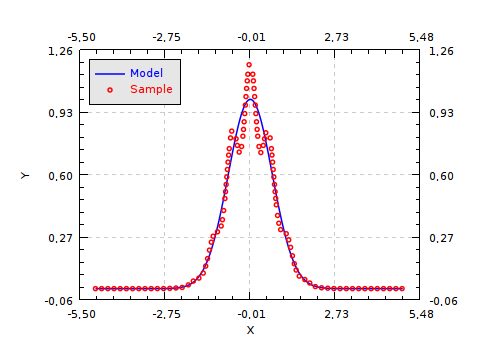
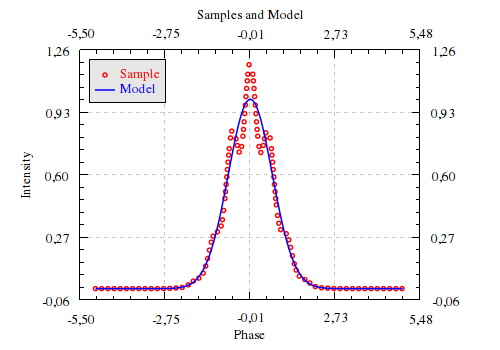
Fixed legend

diff --git a/test.c b/test.c
@@ -34,20 +34,28 @@ int main(int argc, char *argv[])
     
     /* put the data arrays in the data objects */
     slope_data_t *model_data =
-    slope_xydata_create_simple(
-        x, y1, N, "Model",
-        SLOPE_BLUE, SLOPE_LINE);
+        slope_xydata_create_simple(
+            x, y1, N, "Model",
+            SLOPE_BLUE, SLOPE_LINE);
     
     slope_data_t *sample_data =
-    slope_xydata_create_simple(
-        x, y2, N, "Sample",
-        SLOPE_RED, SLOPE_CIRCLES);
+        slope_xydata_create_simple(
+            x, y2, N, "Sample",
+            SLOPE_RED, SLOPE_CIRCLES);
     
     /*
      *create a metrics to place the data in the chart */
     slope_metrics_t *metrics = slope_xymetrics_create();
-    slope_metrics_add_data(metrics, model_data);
     slope_metrics_add_data(metrics, sample_data);
+    slope_metrics_add_data(metrics, model_data);
+    
+    /*
+     * this is how you set axis labels
+     */
+    slope_frame_t *frame = slope_xymetrics_get_frame(metrics);
+    slope_xyframe_set_label(frame, SLOPE_XYFRAME_TOP, "Samples and Model");
+    slope_xyframe_set_label(frame, SLOPE_XYFRAME_BOTTOM, "Phase");
+    slope_xyframe_set_label(frame, SLOPE_XYFRAME_LEFT, "Intensity");
     
     /*
      *add the metrics to a scene */
@@ -55,23 +63,15 @@ int main(int argc, char *argv[])
     slope_scene_add_metrics(scene, metrics);
     
     /*
-     *this is how you set axis labels
-    slope_frame_t *frame = slope_xymetrics_get_frame(metrics);
-    slope_xyframe_set_label(frame, SLOPE_XYFRAME_TOP, "Samples and Model");
-    slope_xyframe_set_label(frame, SLOPE_XYFRAME_BOTTOM, "Phase");
-    slope_xyframe_set_label(frame, SLOPE_XYFRAME_LEFT, "Intensity");
-    */
-    
-    /*
      * this is how you control axis visibility
-     *    slope_xyframe_set_visible(frame, SLOPE_XYFRAME_TOP, SLOPE_FALSE);
-     *    slope_xyframe_set_visible(frame, SLOPE_XYFRAME_RIGHT, SLOPE_FALSE);
+     slope_xyframe_set_visible(frame, SLOPE_XYFRAME_TOP, SLOPE_FALSE);
+     slope_xyframe_set_visible(frame, SLOPE_XYFRAME_RIGHT, SLOPE_FALSE);
      */
     
     /*
      * this is how you control scene and axis colour
-     *    slope_scene_set_back_color_name(scene, SLOPE_BLACK);
-     *    slope_xyframe_set_color_name(frame, SLOPE_WHITE);
+     slope_scene_set_back_color_name(scene, SLOPE_BLACK);
+     slope_xyframe_set_color_name(frame, SLOPE_WHITE);
      */
     
     /*
@@ -95,4 +95,3 @@ int main(int argc, char *argv[])
     slope_scene_destroy(scene);
     return 0;
 }
-

diff --git a/slope/legend.c b/slope/legend.c
@@ -51,7 +51,7 @@ void _slope_legend_guess_geometry (slope_legend_t *legend,
     legend->nlines = 0;
     double bgst_width = 0.0;
     slope_rect_set(
-        &legend->rect, point->x, point->y, 50.0, 25.0);
+        &legend->rect, point->x, point->y, 36.0, 12.0);
 
     slope_iterator_t *iter =
         slope_list_first(legend->metrics->data);
@@ -69,7 +69,7 @@ void _slope_legend_guess_geometry (slope_legend_t *legend,
         cairo_text_extents(cr, data->name, &txt_ext);
         if (txt_ext.width > bgst_width)
             bgst_width = txt_ext.width;
-        legend->rect.height += txt_ext.height;
+        legend->rect.height += txt_ext.height + 5.0;
         
         slope_iterator_next(&iter);
     }
@@ -101,13 +101,15 @@ void _slope_legend_draw (slope_legend_t *legend,
     
     /* draw data entries */
     int order = 1;
+    cairo_text_extents_t txt_ext;
+    cairo_text_extents(cr, "SAMPLE", &txt_ext);
     slope_point_t thumb_pos;
-    thumb_pos.x = legend->rect.x + 20.0;
+    thumb_pos.x = legend->rect.x + 15.0;
+    
     slope_iterator_t *iter =
         slope_list_first(legend->metrics->data);
     while (iter) {
         slope_data_t *data = slope_iterator_data(iter);
-        
         if (data->visible == SLOPE_FALSE ||
             data->has_thumb == SLOPE_FALSE)
         {
@@ -115,9 +117,7 @@ void _slope_legend_draw (slope_legend_t *legend,
             continue;
         }
         
-        cairo_text_extents_t txt_ext;
-        cairo_text_extents(cr, data->name, &txt_ext);
-        thumb_pos.y = legend->rect.y + 5.0 + (order-1)*3.0 + (order++)*txt_ext.height;
+        thumb_pos.y = legend->rect.y + (order++)*(txt_ext.height + 6.0);
         _slope_data_draw_thumb(data, cr, &thumb_pos);
         slope_iterator_next(&iter);
     }

diff --git a/slope/xydata.c b/slope/xydata.c
@@ -208,9 +208,9 @@ void _slope_xydata_draw_thumb (slope_data_t *data, cairo_t *cr,
     
     switch (self->scatter) {
         case SLOPE_LINE:
-            cairo_move_to(cr, point->x - 15.0, point->y);
-            cairo_line_to(cr, point->x + 15.0, point->y);
-            cairo_move_to(cr, point->x + 20, point->y + 3.0);
+            cairo_move_to(cr, point->x - 10.0, point->y);
+            cairo_line_to(cr, point->x + 10.0, point->y);
+            cairo_move_to(cr, point->x + 15, point->y + 3.0);
             cairo_show_text(cr, data->name);
             cairo_stroke(cr);
             break;
@@ -218,7 +218,7 @@ void _slope_xydata_draw_thumb (slope_data_t *data, cairo_t *cr,
             cairo_move_to(cr, point->x+SYMBRAD, point->y);
             cairo_arc(cr, point->x, point->y, SYMBRAD, 0.0, 6.283185);
             if (self->fill_symbol) cairo_fill(cr);
-            cairo_move_to(cr, point->x + 20, point->y + 3.0);
+            cairo_move_to(cr, point->x + 15, point->y + 3.0);
             cairo_show_text(cr, data->name);
             cairo_stroke(cr);
             break;
@@ -228,7 +228,7 @@ void _slope_xydata_draw_thumb (slope_data_t *data, cairo_t *cr,
             cairo_line_to(cr, point->x, point->y-SYMBRAD);
             cairo_close_path(cr);
             if (self->fill_symbol) cairo_fill(cr);
-            cairo_move_to(cr, point->x + 20, point->y + 3.0);
+            cairo_move_to(cr, point->x + 15, point->y + 3.0);
             cairo_show_text(cr, data->name);
             cairo_stroke(cr);
             break;

diff --git a/slope/xyframe.c b/slope/xyframe.c
@@ -169,7 +169,7 @@ void _slope_xyframe_draw_bottom_top (slope_frame_t *frame, cairo_t *cr)
         if (self->top_label) {
             cairo_text_extents(cr, self->top_label, &txt_ext);
             cairo_move_to(cr, x + (metrics->width_scene - txt_ext.width)/2.0,
-                          yup - 3.0*txt_ext.height);
+                          yup - 2.6*txt_ext.height);
             cairo_show_text(cr, self->top_label);
         }
         cairo_stroke(cr);
@@ -312,7 +312,7 @@ void _slope_xyframe_draw_left_right (slope_frame_t *frame, cairo_t *cr)
             cairo_rotate(cr, -1.570797);
             cairo_text_extents(cr, self->left_label, &txt_ext);
             cairo_move_to(cr, -y + (metrics->height_scene - txt_ext.width)/2.0,
-                          xlf - 3.0*txt_ext.height - bgtnumwidth);
+                          xlf - 2.0*txt_ext.height - bgtnumwidth);
             cairo_show_text(cr, self->left_label);
             cairo_restore(cr);
         }
@@ -326,7 +326,7 @@ void _slope_xyframe_draw_left_right (slope_frame_t *frame, cairo_t *cr)
             cairo_rotate(cr, -1.570797);
             cairo_text_extents(cr, self->right_label, &txt_ext);
             cairo_move_to(cr, -y + (metrics->height_scene - txt_ext.width)/2.0,
-                          xrt + 3.0*txt_ext.height + bgtnumwidth);
+                          xrt + 2.0*txt_ext.height + bgtnumwidth);
             cairo_show_text(cr, self->right_label);
             cairo_restore(cr);
         }

diff --git a/slope/scene.c b/slope/scene.c
@@ -29,7 +29,7 @@ slope_scene_t* slope_scene_create()
     scene->metrics = NULL;
     slope_color_set_name(&scene->back_color, SLOPE_WHITE);
     scene->fill_back = 1;
-    scene->font_size = 11;
+    scene->font_size = 13;
     scene->_cleanup_fn = NULL;
 }
 
@@ -62,6 +62,11 @@ void slope_scene_draw (slope_scene_t *scene, cairo_t *cr,
     cairo_rectangle(cr, area->x, area->y,
                     area->width, area->height);
     cairo_clip(cr);
+    
+    /* font settings */
+    cairo_select_font_face(cr, "Times",
+                           CAIRO_FONT_SLANT_NORMAL,
+                           CAIRO_FONT_WEIGHT_NORMAL);
     cairo_set_font_size(cr, scene->font_size);
     
     /* area must be bigger than 250x250 */

diff --git a/slope/scene_p.h b/slope/scene_p.h
@@ -33,7 +33,7 @@ struct _slope_scene
     slope_list_t *metrics;
     slope_color_t back_color;
     int fill_back;
-    int font_size;
+    double font_size;
 
     void (*_cleanup_fn) (slope_scene_t*);
 };
